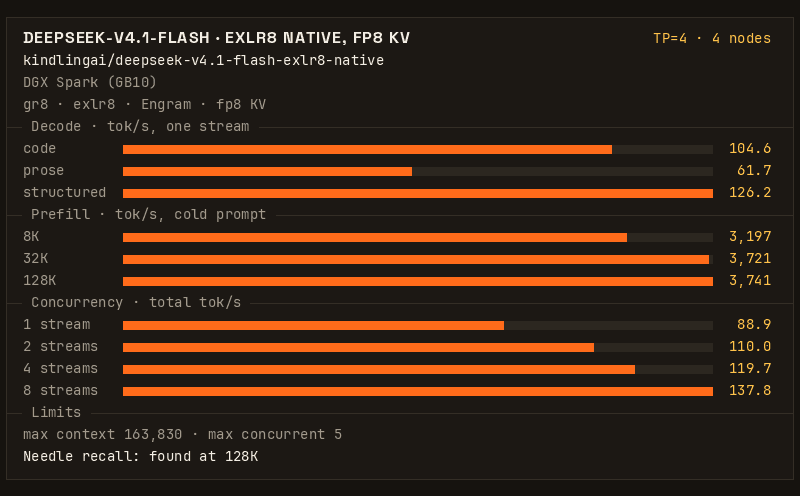
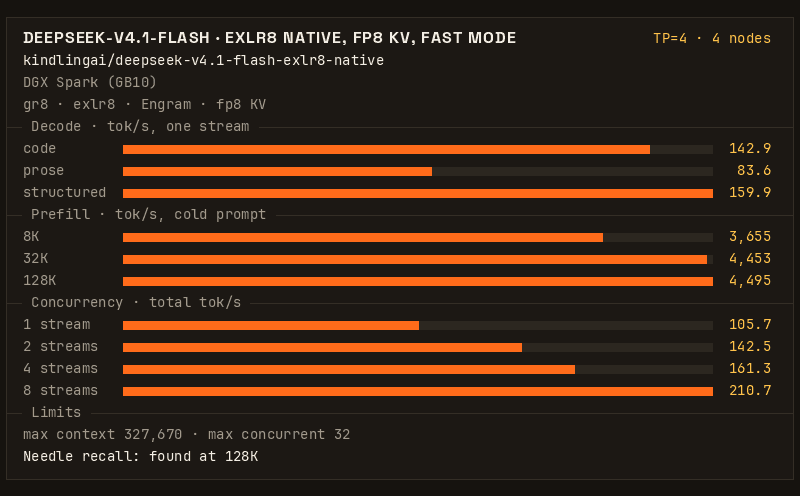
Fast mode by default: 32 chats at CAP 327,680 on a DS41_MX=48 build; EXACT=1 is the exact model at 5 x 262,144 (#2)
- knobs.sh: EXACT=0 is the default and turns on FIRST-BOOT.md Q3's switches, Q4's output head and three prefill
  settings of gr8/docs/ENV.md; SESS and CAP default by mode (32 x 327,680 fast, 5 x 262,144 exact).
- Dockerfile builds the engine with DS41_MX=48; CI checks follow the new defaults and error text.
- README: the trade table compares fast mode with EXACT=1 (72 vs 73 of 75; outputs not bit-identical), More numbers
  names both builds and dates, and a short note gives our view of DeepSeek-V4.1-Flash as a reviewer.
- kindling.json re-based on a gr8 bench run in fast mode (2026-11-05); docs/card.png redrawn from it with
  gr8 bench/gif.py card.

diff --git a/README.md b/README.md
@@ -5,15 +5,22 @@ _**Join our discord to learn more about KindlingAI and `gr8`: https://discord.gg
 [DeepSeek-V4.1-Flash-1017](https://huggingface.co/deepseek-ai/DeepSeek-V4.1-Flash-1017) on four DGX Sparks (GB10,
 128 GB each) at TP=4, served by [gr8](https://github.com/kindlingai/gr8) from
 [kindlingai/deepseek-v4.1-flash-exlr8-native](https://huggingface.co/kindlingai/deepseek-v4.1-flash-exlr8-native):
-fp8 KV, Engram, five chats at once, and the exact model's output.
+fp8 KV, Engram and 32 chats at once, in fast mode by default. Fast mode writes faster, and its output is not
+bit-identical to the exact model's. `EXACT=1` gives the exact model's output (see What you can trade).
 
-> Not yet run end to end. The image builds and passes its no-GPU smoke test on a test box (CI has not run yet), and the
-> numbers below come from gr8 on four boxes through our own test harness. This recipe's Quickstart has not yet been run
-> on four clean boxes. If a step fails, tell us on Discord.
+**Our view:** DeepSeek-V4.1-Flash is best used as a reviewer, and for work that will be double-checked, because it
+tends to hallucinate a lot in general. That is a model issue, not an engine or quant issue.
 
-![DeepSeek-V4.1-Flash on four GB10s: decode, prefill and concurrency](docs/card.png)
+> Not yet run end to end. The image with fast mode as its default has not been built or booted yet, and CI has not run
+> on it. The numbers below come from an older gr8 with the same engine settings, on four boxes through our own test
+> harness, not from this image. This recipe's Quickstart has not yet been run on four clean boxes. If a step fails, tell
+> us on Discord.
 
-*A recording of several chats at once, at this recipe's defaults, is still to come.*
+![DeepSeek-V4.1-Flash on four GB10s in fast mode: decode, prefill and concurrency](docs/card.png)
+
+*The card is one `gr8` bench run in fast mode on 2026-11-05: gr8 `main` at `35a8f1c` with the change that became
+#359, built with `DS41_MX=48` (see More numbers). A recording of several chats at once, at this recipe's defaults, is
+still to come.*
 
 ## What you need
 
@@ -142,9 +149,9 @@ In `.env` next to `compose.yaml` (see `.env.example`), or with `docker run -e`, 
 |---|---|---|
 | `PEERS` | none | The four boxes' 10G LAN addresses, head first. Required unless `MENTAT=1`. |
 | `IPS`, `IPS2` | none | Each box's ConnectX address on PCIe root 1 and root 2, in `PEERS` order (see Clustering). |
-| `CAP` | `262144` | The longest chat in tokens, prompt and reply together. Every chat slot gets this much KV at boot. A request holds at most `CAP` less 10 tokens (262,134). |
-| `SESS` | `5` | Chats at once. A chat that arrives when every slot is busy waits. Above 5, the image adds `GR8_DS_SESS_DRAFTS=1`, so every chat keeps drafting. |
-| `EXACT` | `1` | `1`: the exact model's output. `0`: faster, not exact (see What you can trade). |
+| `EXACT` | `0` | `0`: fast mode, faster and not bit-identical to the exact model's output. `1`: the exact model's output (see What you can trade). |
+| `CAP` | `327680`; `262144` with `EXACT=1` | The longest chat in tokens, prompt and reply together. Every chat slot gets this much KV at boot. A request holds at most `CAP` less 10 tokens (327,670; 262,134 with `EXACT=1`). |
+| `SESS` | `32`; `5` with `EXACT=1` | Chats at once, 1 to 32. A chat that arrives when every slot is busy waits. Above 5, the image adds `GR8_DS_SESS_DRAFTS=1`: each chat drafts fewer tokens as more chats write, and none when more than 24 write at once. |
 | `MENTAT` | `0` | `1`: the boxes find each other and their ConnectX addresses through the host's `mentat` daemon, and register the API, in group `GROUP` (`gr8-ds41-4x`). |
 
 The image pins the release to the Hugging Face commit measured below,
@@ -159,21 +166,46 @@ and the release's tokenizer, and the build stops unless it matches the map the e
 You can set any other `gr8` option in `.env` too: [gr8/KNOBS.md](https://github.com/kindlingai/gr8/blob/5381433c940b51223f8287f93b0c484c806207e9/KNOBS.md)
 lists them, and [gr8/docs/DEEPSEEK-BOOT.md](https://github.com/kindlingai/gr8/blob/5381433c940b51223f8287f93b0c484c806207e9/docs/DEEPSEEK-BOOT.md)
 covers DeepSeek-V4.1-Flash. Engine settings go in `EXTRA_ENV`, as `NAME=value` pairs separated by spaces
-(`EXTRA_ENV="A=1 B=2"`). The image sets `TP=4`
-and Engram (`Dockerfile`, `knobs.sh`). The KV cache is always fp8.
+(`EXTRA_ENV="A=1 B=2"`). The image sets `TP=4`, Engram and fast mode's switches (`Dockerfile`, `knobs.sh`). The KV
+cache is always fp8. The image's engine is built with `DS41_MX=48`: a decode step holds 48 rows instead of gr8's
+default 32, so a step can verify 6 rows for each of 8 chats
+([gr8/engine/runtime/build_m4.sh](https://github.com/kindlingai/gr8/blob/5381433c940b51223f8287f93b0c484c806207e9/engine/runtime/build_m4.sh)).
 
 ## What you can trade
 
+### Fast mode or the exact model
+
+Fast mode (`EXACT=0`, the default) turns on the switches of
+[gr8/docs/FIRST-BOOT.md](https://github.com/kindlingai/gr8/blob/5381433c940b51223f8287f93b0c484c806207e9/docs/FIRST-BOOT.md#3-deepseek-v41-flash-ds41-speed-against-exactness)
+Q3 (`GR8_DS_RELAXED_ACCEPT=topp:0.9,ratio:0.1 GR8_DS_MOE_TOPK_DECODE=4`) and Q4 (`GR8_DS41_HEAD_MX=1`), which change
+the output. It also turns on three prefill settings of [gr8/docs/ENV.md](https://github.com/kindlingai/gr8/blob/5381433c940b51223f8287f93b0c484c806207e9/docs/ENV.md):
+`GR8_DS_ATTN_TC_MF=2`, `GR8_DS_ATTN_TC_TILE=1` and `GR8_DS_MHC_ROW_SHARD=1`. Its replies are not bit-identical to
+the exact model's: the same prompt can get a different reply. `EXACT=1` runs gr8's launcher defaults, which give the
+exact model's output. In FIRST-BOOT.md, Q3's two switches took the 75-item check from 73 to 71 right, and Q4's head,
+added to them, brought it to 72.
+
+| | fast mode (default) | `EXACT=1` |
+|---|---|---|
+| output | not bit-identical to the exact model's | the exact model's |
+| FIRST-BOOT.md's 75-item check | 72 of 75 right, on each of two boots | 73 of 75 right, in each of three runs |
+| one chat writing: code / prose / structured | 142.4-145.6 / 83.5-84.6 / 159.5-161.6 tok/s | 104.6-105.9 / 61.7-62.0 / 126.2-126.9 tok/s |
+| prompt reading, cold: 8K / 32K / 128K | 3,655-4,463 / 4,453-4,903 / 4,449-4,612 tok/s | 3,197-3,700 / 3,721-4,001 / 3,741-3,815 tok/s |
+| 8 chats at once, all together | 210.7-228.3 tok/s | 137.8-145.9 tok/s, 3 of the 8 waiting for a slot |
+| chats at once, unless `SESS` is set | 32 | 5 |
+| longest request, unless `CAP` is set | 327,670 tokens | 262,134 tokens |
+
+The two columns come from different gr8 builds and boots: the `EXACT=1` column is an older build with 5 chat slots.
+So the table does not show how much of the difference fast mode alone makes. More numbers names both builds.
+
+### Chat slots and chat length
+
 From [gr8/docs/FIRST-BOOT.md](https://github.com/kindlingai/gr8/blob/5381433c940b51223f8287f93b0c484c806207e9/docs/FIRST-BOOT.md#2-deepseek-v41-flash-ds41-how-many-chats-and-how-long),
-measured on four GB10 boxes with gr8. Rows marked "faster, not exact" were measured with `EXACT=0`'s two switches on,
-so their tok/s are higher than the same change gives at `EXACT=1`.
+measured on four GB10 boxes with an earlier gr8 build. Q3's switches were on, the rest of fast mode was not.
 
 | change | you gain | you give up | measured |
 |---|---|---|---|
-| `EXACT=0` | Faster writing. Long replies: code +41-42%, prose +50-52%. Short replies: code +21-23%, prose +51%. | The output is no longer the exact model's. The 75-item check went from 73 to 71 right. | [Q3](https://github.com/kindlingai/gr8/blob/5381433c940b51223f8287f93b0c484c806207e9/docs/FIRST-BOOT.md#q3-faster-writing-for-a-small-quality-loss), two builds of `main` |
-| `SESS=10` or `16` | Fewer chats wait for a free slot: with 16 chats, 11 wait at 5 slots, 6 at 10 and none at 16. The first word then comes in 4.2-4.4 s, against 5.4-5.5 s with 5 slots. | Each chat writes slower: with 8 chats, 51-56 tok/s each against 68-69. The total stays at about 235-275 tok/s from 8 chats up. About 0.35 GiB a box for each slot. | [Q1](https://github.com/kindlingai/gr8/blob/5381433c940b51223f8287f93b0c484c806207e9/docs/FIRST-BOOT.md#q1-how-many-chats-at-once), faster, not exact |
-| `CAP=1048576` | One chat can hold 1,048,566 tokens. | A 1,031,542-token prompt takes about 417 s to read. Recall at 1M found all 3 hidden facts in 2 of 7 prompts. 9.8-10.0 GiB free a box at ready, with 16 slots. | [Q2](https://github.com/kindlingai/gr8/blob/5381433c940b51223f8287f93b0c484c806207e9/docs/FIRST-BOOT.md#q2-how-long-can-one-chat-be), 16 slots, `GR8_DS_CACHE_MIB=2048`, faster, not exact |
-| `EXTRA_ENV=GR8_DS41_HEAD_MX=1` | New text decodes 2.4% faster. | 13 of 75 answers changed. The check went from 71 to 72 right. | [Q4](https://github.com/kindlingai/gr8/blob/5381433c940b51223f8287f93b0c484c806207e9/docs/FIRST-BOOT.md#q4-a-smaller-output-head), faster, not exact |
+| `SESS=5` | With 8 chats, the 5 that run write 68-69 tok/s each, against 51-56 when 10 slots let all 8 run. The total stays at about 235-275 tok/s from 8 chats up. Each 262,144-token slot dropped frees about 0.35 GiB a box at ready. | Chats beyond 5 wait for a slot. With 16 chats, 11 wait, and the first word comes in 5.4-5.5 s, against 4.2-4.4 s with 10 or 16 slots. | [Q1](https://github.com/kindlingai/gr8/blob/5381433c940b51223f8287f93b0c484c806207e9/docs/FIRST-BOOT.md#q1-how-many-chats-at-once), 5, 10 and 16 slots; 32 slots were not part of Q1 |
+| `CAP=1048576 SESS=16` | One chat can hold 1,048,566 tokens. | A 1,031,542-token prompt takes about 417 s to read. Recall at 1M found all 3 hidden facts in 2 of 7 prompts. 9.8-10.0 GiB free a box at ready. | [Q2](https://github.com/kindlingai/gr8/blob/5381433c940b51223f8287f93b0c484c806207e9/docs/FIRST-BOOT.md#q2-how-long-can-one-chat-be), 16 slots, `GR8_DS_CACHE_MIB=2048`; 32 slots at 1M were not tested |
 
 ## The prefix cache
 
@@ -183,14 +215,38 @@ disk, so a restart empties it.
 
 ## More numbers
 
-The card above is one `gr8` bench run on four boxes, stored in `kindling.json`. Regenerate it with
+The card above is one `gr8` bench run on four boxes in fast mode, stored in `kindling.json`. Regenerate it with
 `python3 gr8/bench/bench.py kindling REPORT.json --out kindling.json --config-id tp4`.
 
-That boot ran the branch that was merged as gr8 `main` at
+### Fast mode
+
+Two boots on 2026-11-05, with this recipe's fast-mode settings: Engram, fast mode's switches, 32 chat slots and `CAP`
+327,680. The engine was gr8 `main` at
+[`35a8f1c`](https://github.com/kindlingai/gr8/commit/35a8f1c771991a87b0c6308006b74ce70faf0378) with the change that
+became gr8 #359, built with `DS41_MX=48`. The image builds a later `main`,
+[`5381433`](https://github.com/kindlingai/gr8/commit/5381433c940b51223f8287f93b0c484c806207e9), which contains both
+and 39 other later commits, and it sets the same engine settings. These numbers have not been measured on that build.
+The rows are the four runs, two on each boot, as a range:
+
+| | |
+|---|---|
+| decode, one stream: code / prose / structured | 142.4-145.6 / 83.5-84.6 / 159.5-161.6 tok/s |
+| prefill, cold: 8K / 32K / 128K prompt | 3,655-4,463 / 4,453-4,903 / 4,449-4,612 tok/s |
+| all streams together: 1 / 2 / 4 / 8 | 105.7-109.1 / 142.5-150.4 / 161.3-175.4 / 210.7-228.3 tok/s |
+| first word after a 128K prompt | 28.5-29.5 s |
+| a fact hidden in a 128K prompt | found in each of the four runs |
+| quality | 72 of 75 on FIRST-BOOT.md's 75-item check, one run on each boot |
+| the release | 510.6 GB in 604 files, on every box |
+
+### `EXACT=1`
+
+One boot on 2026-11-02 of the branch that was merged as gr8 `main` at
 [`40a91f5`](https://github.com/kindlingai/gr8/commit/40a91f57beac69a752ab15b6e8f4e1c24d70c7a4). Its engine, launcher and
-front end are the same as `40a91f5`'s. It used the launcher's defaults and Engram: the same settings as this recipe
-(exact output, 5 chat slots, `CAP` 262,144), on an older `main` than the image builds. Its longest request was 163,830
-tokens, because it came before gr8 #325. `main` now allows 262,134.
+front end are the same as `40a91f5`'s, built with gr8's default 32 rows a step. It used the launcher's defaults and
+Engram: exact output, 5 chat slots, `CAP` 262,144. Its longest request was 163,830 tokens, because it came before gr8
+#325. `main` now allows 262,134. `main`'s launcher has since added three defaults that this boot ran without:
+`GR8_DEC_BK` equal to `CAP` (this boot: 16384), `GR8_DS_COMP_FP4=1` and `GR8_S2_DECODE_PF=1024`. `EXACT=1` on this
+image's `DS41_MX=48` build has not been measured.
 
 The first four rows are that boot's two runs, as a range:
 
@@ -201,11 +257,10 @@ The first four rows are that boot's two runs, as a range:
 | all streams together: 1 / 2 / 4 / 8 | 88.9-91.1 / 110.0-113.6 / 119.7-131.2 / 137.8-145.9 tok/s |
 | first word after a 128K prompt | 34.3-35.1 s |
 | quality, on a later boot of `main` at b10aae4 | 73 of 75 in each of three runs of FIRST-BOOT.md's 75-item check, exact output |
-| the release | 510.6 GB in 604 files, on every box |
 
-The boxes were four DGX Sparks on one switch. Their CPUs were kept out of deep idle (PM QoS `cpu_dma_latency`
-0), and memory was compacted before each boot. Both are box settings outside gr8. The boots went through our own test
-harness, not this image.
+The boxes were four DGX Sparks on one switch, for both. Their CPUs were kept out of deep idle (PM QoS
+`cpu_dma_latency` 0), and memory was compacted before each boot. Both are box settings outside gr8. The boots went
+through our own test harness, not this image.
 
 ## For your agent
 
